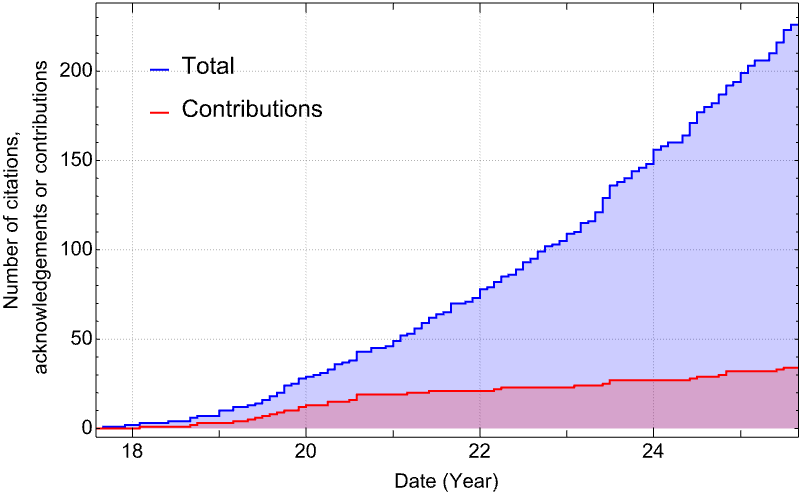
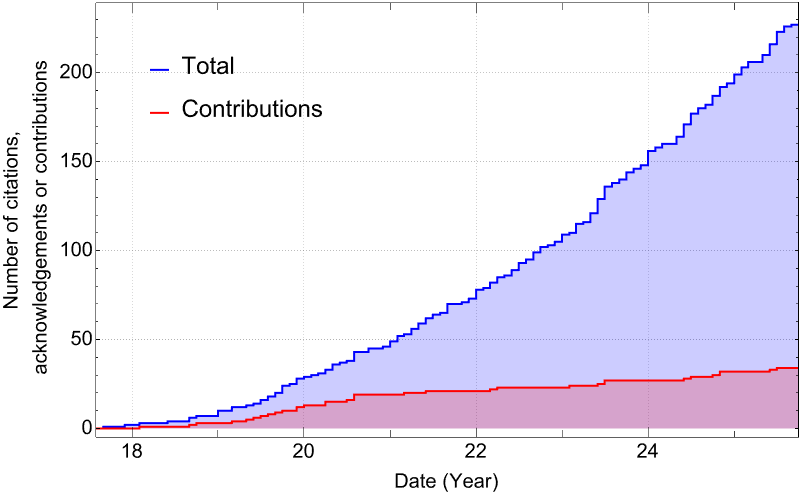
Add new paper that cites the BHPToolkit

diff --git a/users.md b/users.md
@@ -19,6 +19,8 @@ The graph below show the accumulated citations to the Toolkit over time. The blu
 
 Below is a list of research papers that have used or extended the Toolkit. Papers that have contributed code or data to the Toolkit have a (*) after them.
 
+227\. "Resonance in black hole ringdown: Benchmarking quasinormal mode excitation and extraction", Kei-ichiro Kubota, Hayato Motohashi [arXiv:2509.06411](https://arxiv.org/abs/2509.06411)
+
 226\. "Prospects for EMRI/MBH parameter estimation using Quasi-Periodic Eruption timings: short-timescale analysis", Joheen Chakraborty, Lisa V. Drummond, Matteo Bonetti, Alessia Franchini, Shubham Kejriwal, Giovanni Miniutti, Riccardo Arcodia, Scott A. Hughes, Francisco Duque, Erin Kara, Alberto Sesana, Margherita Giustini, Amedeo Motta, Kevin Burdge, [arXiv:2508.20162](https://arxiv.org/abs/2508.20162)
 
 225\. "Emergent Turbulence in Nonlinear Gravity", Sizheng Ma, Luis Lehner, Huan Yang, Lawrence E. Kidder, Harald P. Pfeiffer, Mark A. Scheel, [arXiv:2508.13294](https://arxiv.org/abs/2508.13294)
